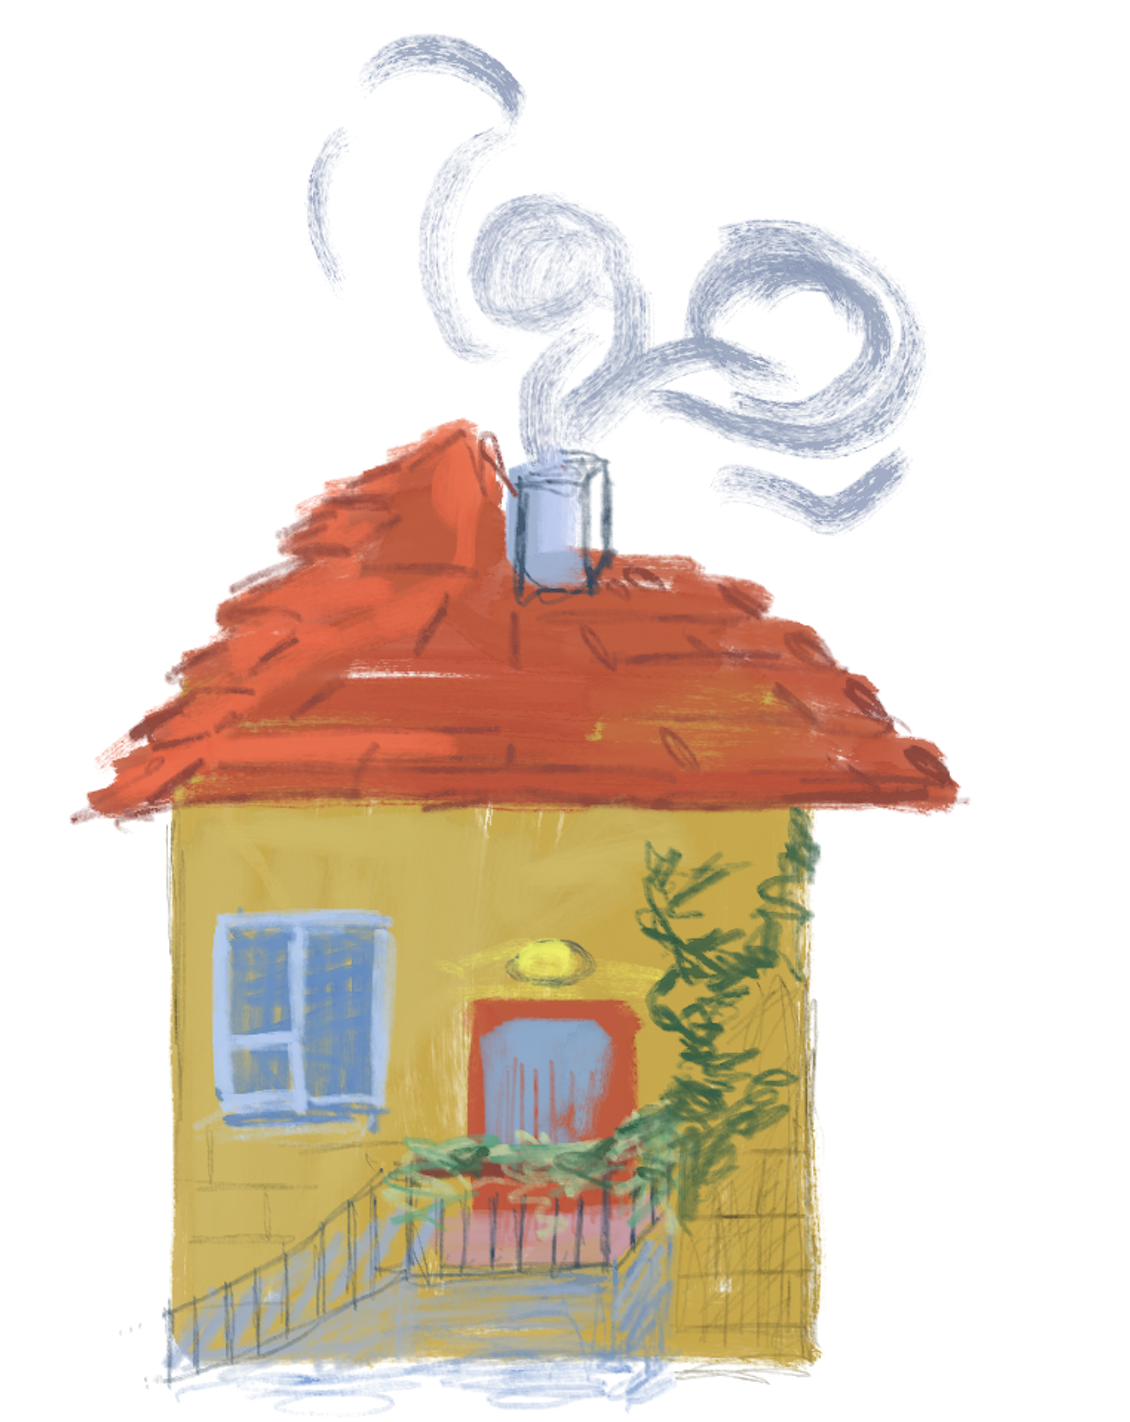
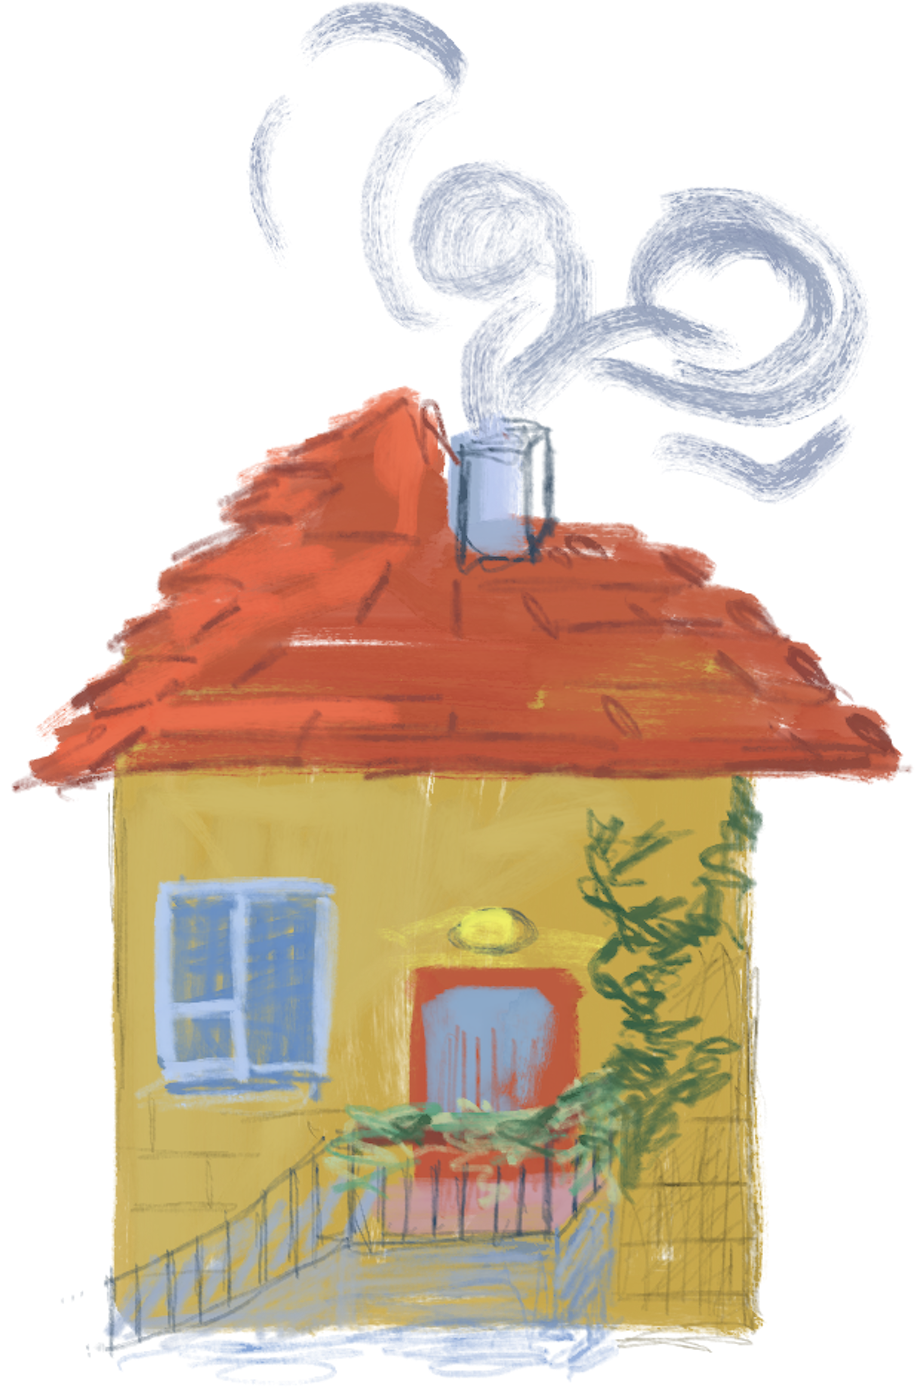
going now

diff --git a/blogstyle.css b/blogstyle.css
@@ -87,15 +87,16 @@ body {
 .page-header a {
   position: absolute;
   top: 0;
-  left: 0;                /* or right: 0; for the other corner */
+  left: 0;
   padding: 0px;
+  display: inline-block;
 }
 
 .page-header a img {
   width: 120px;
   height: 160px; 
   object-fit: contain;
-  transition: transform 0.2s ease;
+  transition: transform 0.2s ease, opacity 0.2s ease;
 }
 
 .page-header a:hover img {
@@ -105,6 +106,8 @@ body {
 
 .page-header a .label {
     position: absolute;
+    top: 65%;
+    left: 40%;
     opacity: 0;
     transition: opacity 0.3s ease;
     font-family: LT Asus Mono;

diff --git a/blog.html b/blog.html
@@ -13,9 +13,10 @@
             <span class="label">home</span>
         </a>
     <h1 style="text-align:center;">my blog :(</h1>
+    <h2 style="text-align:center;">spare thoughts and opinions</h2>
+    <h3 style="text-align:center;">now testing... </h3>
  </header>
-    <h2>spare thoughts and opinions</h2>
-    <h3>now testing... </h3>
+  
 
  <div class="blogpost">
     <h2 class="title">post1</h2>
